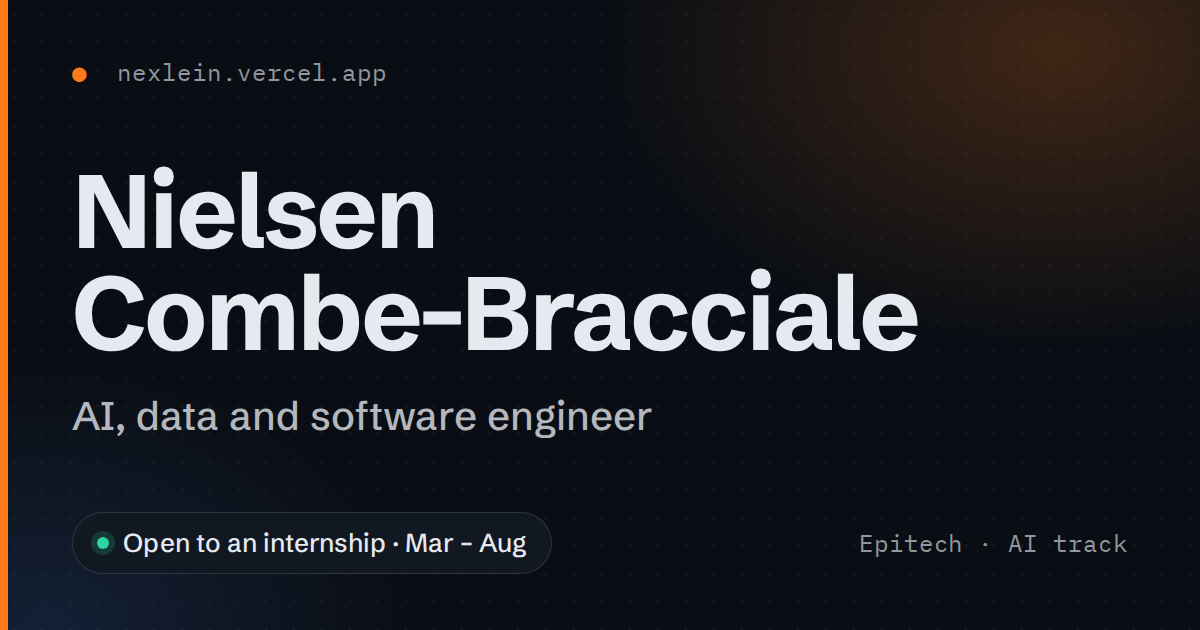
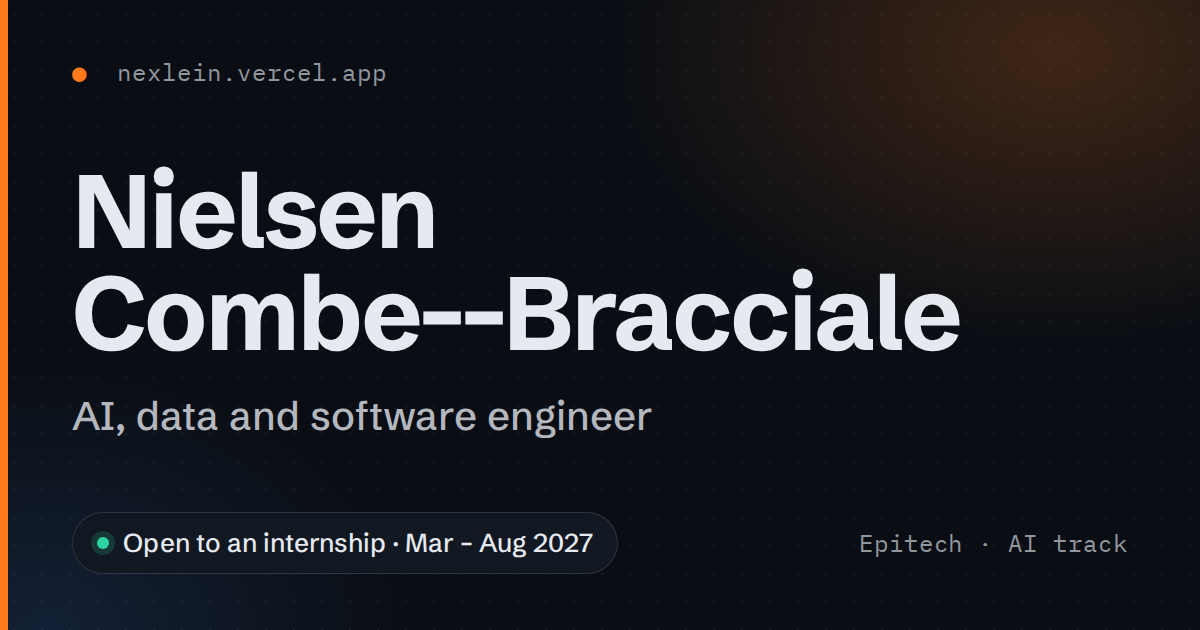
fix(brand): match the site's spelling of the name in the social image

Changed region(s): [[0.37, 0.4222, 0.8017, 0.573], [0.4317, 0.8444, 0.4933, 0.8746]]

diff --git a/scripts/brand-images.ts b/scripts/brand-images.ts
@@ -33,7 +33,7 @@ h1 { font-size: 104px; line-height: 0.98; font-weight: 700; letter-spacing: -0.0
 <div class="glow"></div><div class="dots"></div><div class="bar"></div>
 <div class="frame">
   <div class="mono"><b>●</b>&nbsp; nexlein.vercel.app</div>
-  <div><h1>Nielsen<br>Combe-Bracciale</h1><p class="role">AI, data and software engineer</p></div>
+  <div><h1>Nielsen<br>Combe--Bracciale</h1><p class="role">AI, data and software engineer</p></div>
   <div style="display:flex;justify-content:space-between;align-items:center">
     <span class="pill"><i></i>${NOW.availability.en}</span>
     <span class="mono">Epitech · AI track</span>
